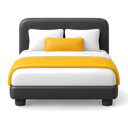
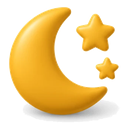
App: icone 3D gruppi 6 e 7 (riposo, ferie, malattia, stanze della check-list, coppa della festa, da assegnare)

diff --git a/app/index.html b/app/index.html
@@ -1083,7 +1083,7 @@ function vAgenda(){
   var days='';for(var d2=r[0];d2<=r[1];d2=addDays(d2,1)){var l2=byDay[d2]||[],cont;
    if(isBoss()){var gw={},go=[],offw=l2.filter(function(x){return x.kind!=='lavoro'});l2.filter(function(x){return x.kind==='lavoro'&&x.apt_id}).forEach(function(x){var k=x.user_id||'_';if(!gw[k]){gw[k]=[];go.push(k)}gw[k].push(x)});
     go.sort(function(a,b){return (a==='_')-(b==='_')});
-    cont=go.map(function(k){var L=gw[k],nm=k==='_'?null:(L[0].profiles&&L[0].profiles.name);return '<div class="pr'+(k==='_'?' pr-ua':'')+'">'+(k==='_'?mIco('attenzione','av'):avatar(nm))+'<div class="prb"><b>'+(k==='_'?'Da assegnare':esc(nm||'?'))+' <small>'+L.length+' app.</small></b><div class="aps">'+L.map(function(x){return '<span class="apc">'+esc(x.apartments?x.apartments.name:'?')+'</span>'}).join('')+'</div></div></div>'}).join('')+
+    cont=go.map(function(k){var L=gw[k],nm=k==='_'?null:(L[0].profiles&&L[0].profiles.name);return '<div class="pr'+(k==='_'?' pr-ua':'')+'">'+(k==='_'?mIco('daassegnare','av'):avatar(nm))+'<div class="prb"><b>'+(k==='_'?'Da assegnare':esc(nm||'?'))+' <small>'+L.length+' app.</small></b><div class="aps">'+L.map(function(x){return '<span class="apc">'+esc(x.apartments?x.apartments.name:'?')+'</span>'}).join('')+'</div></div></div>'}).join('')+
      (offw.length?'<div class="offw">'+offw.map(function(x){return '<span class="of k-'+x.kind+'">'+kIco(x.kind)+KINDS[x.kind]+' · '+esc(x.profiles?nome1(x.profiles.name):'')+'</span>'}).join('')+'</div>':'');
    }else cont=l2.map(function(x){return '<div class="it">'+label(x)+'</div>'}).join('');
    var pd=pdate(d2);days+='<div class="dy '+(d2===todayStr()?'today':'')+'"><div class="dn"><span class="wd">'+pd.fmD({weekday:'short'})+'</span><span class="dnum">'+pd.getDate()+'</span></div><div class="dbody">'+(l2.length?cont:'<span class="note">Niente in programma</span>')+(isBoss()?'<button class="mini x agmod" data-agday="'+d2+'" data-agmode="giorno">'+mIco('modifica')+'Modifica</button>':'')+'</div></div>';}
@@ -1105,7 +1105,7 @@ function dayDetail(d,list){
   return '<div class="opblock k-'+st+'"><div class="nm">'+avatar(o.name)+'<span class="who"><b>'+esc(o.name)+'</b><small>'+(st!=='lavoro'?KINDS[st]:work.length?work.length+(work.length===1?' appartamento':' appartamenti'):'Nessun appartamento')+'</small></span><span class="ksel">'+(st!=='lavoro'?kIco(st):mIco('pulizia'))+'<select data-kind="'+o.id+'" data-day="'+d+'">'+Object.keys(KINDS).map(function(k){return '<option value="'+k+'" '+(st===k?'selected':'')+'>'+KINDS[k]+'</option>'}).join('')+'</select></div>'+
   (st==='lavoro'?'<div class="aps">'+work.map(function(x){return '<span class="apc">'+mIco('palazzo')+esc(x.apartments?x.apartments.name:'?')+'<button data-unassign="'+x.id+'" title="Togli">✕</button></span>'}).join('')+'</div><select class="addsel" data-addapt="'+o.id+'" data-day="'+d+'"><option value="">+ aggiungi appartamento…</option>'+(liberi.length?'<optgroup label="Da assegnare in questo giorno">'+liberi.map(function(x){var a=x.apartments||{};return '<option value="'+x.apt_id+'">'+esc(a.name||'?')+(x.guests?' · '+x.guests+' ospiti':'')+'</option>'}).join('')+'</optgroup>':'')+'<optgroup label="Tutti gli altri">'+apts.filter(function(a){return !liberiId[a.id]&&!isServ(a)}).map(function(a){return '<option value="'+a.id+'">'+esc(a.name)+(a.client?' · '+esc(a.client):'')+'</option>'}).join('')+'</optgroup></select>':'<p class="note">'+(offs[0]&&offs[0].note?esc(offs[0].note):'Nessun appartamento in questo giorno.')+'</p>')+'</div>';}).join('');
  var unassigned=list.filter(function(x){return x.apt_id&&!x.user_id});
- return '<div class="card" id="daydet"><h2 class="ddh">'+mIco('calendario')+dlong(d)+'</h2><p class="note" style="margin-bottom:8px">Assegna gli appartamenti a ogni persona o imposta riposo, ferie, malattia. Le modifiche si salvano subito.</p>'+blocks+(unassigned.length?'<div class="opblock k-ua"><div class="nm">'+mIco('attenzione','av')+'<span class="who"><b>Non assegnati</b><small>'+unassigned.length+' da dare a qualcuno</small></span></div><div class="aps">'+unassigned.map(function(x){return '<span class="apc">'+mIco('palazzo')+esc(x.apartments.name)+'<button data-unassign="'+x.id+'">✕</button></span>'}).join('')+'</div></div>':'')+'</div>';
+ return '<div class="card" id="daydet"><h2 class="ddh">'+mIco('calendario')+dlong(d)+'</h2><p class="note" style="margin-bottom:8px">Assegna gli appartamenti a ogni persona o imposta riposo, ferie, malattia. Le modifiche si salvano subito.</p>'+blocks+(unassigned.length?'<div class="opblock k-ua"><div class="nm">'+mIco('daassegnare','av')+'<span class="who"><b>Non assegnati</b><small>'+unassigned.length+' da dare a qualcuno</small></span></div><div class="aps">'+unassigned.map(function(x){return '<span class="apc">'+mIco('palazzo')+esc(x.apartments.name)+'<button data-unassign="'+x.id+'">✕</button></span>'}).join('')+'</div></div>':'')+'</div>';
 }
 // 21/10: icona di ogni foto obbligatoria (se l'icona 3D non c'è ancora si vede quella della macchina fotografica)
 var FOTO_ICO={'Letto':'letto','Bagno':'bagno','Cucina':'cucina','Soggiorno':'soggiorno','Chiavi nel lucchetto':'keybox','Video all’ingresso':'video','Video prima':'video','Video dopo':'video','Foto ingresso 1':'porta','Foto ingresso 2':'porta','Esterno':'balcone','Biancheria extra nell’armadio':'biancheria','Richiesta del cliente':'richieste','Chiave nella cassetta della posta':'chiavi','Consegna fatta':'consegna','Bidoni fuori':'rifiuti'};
